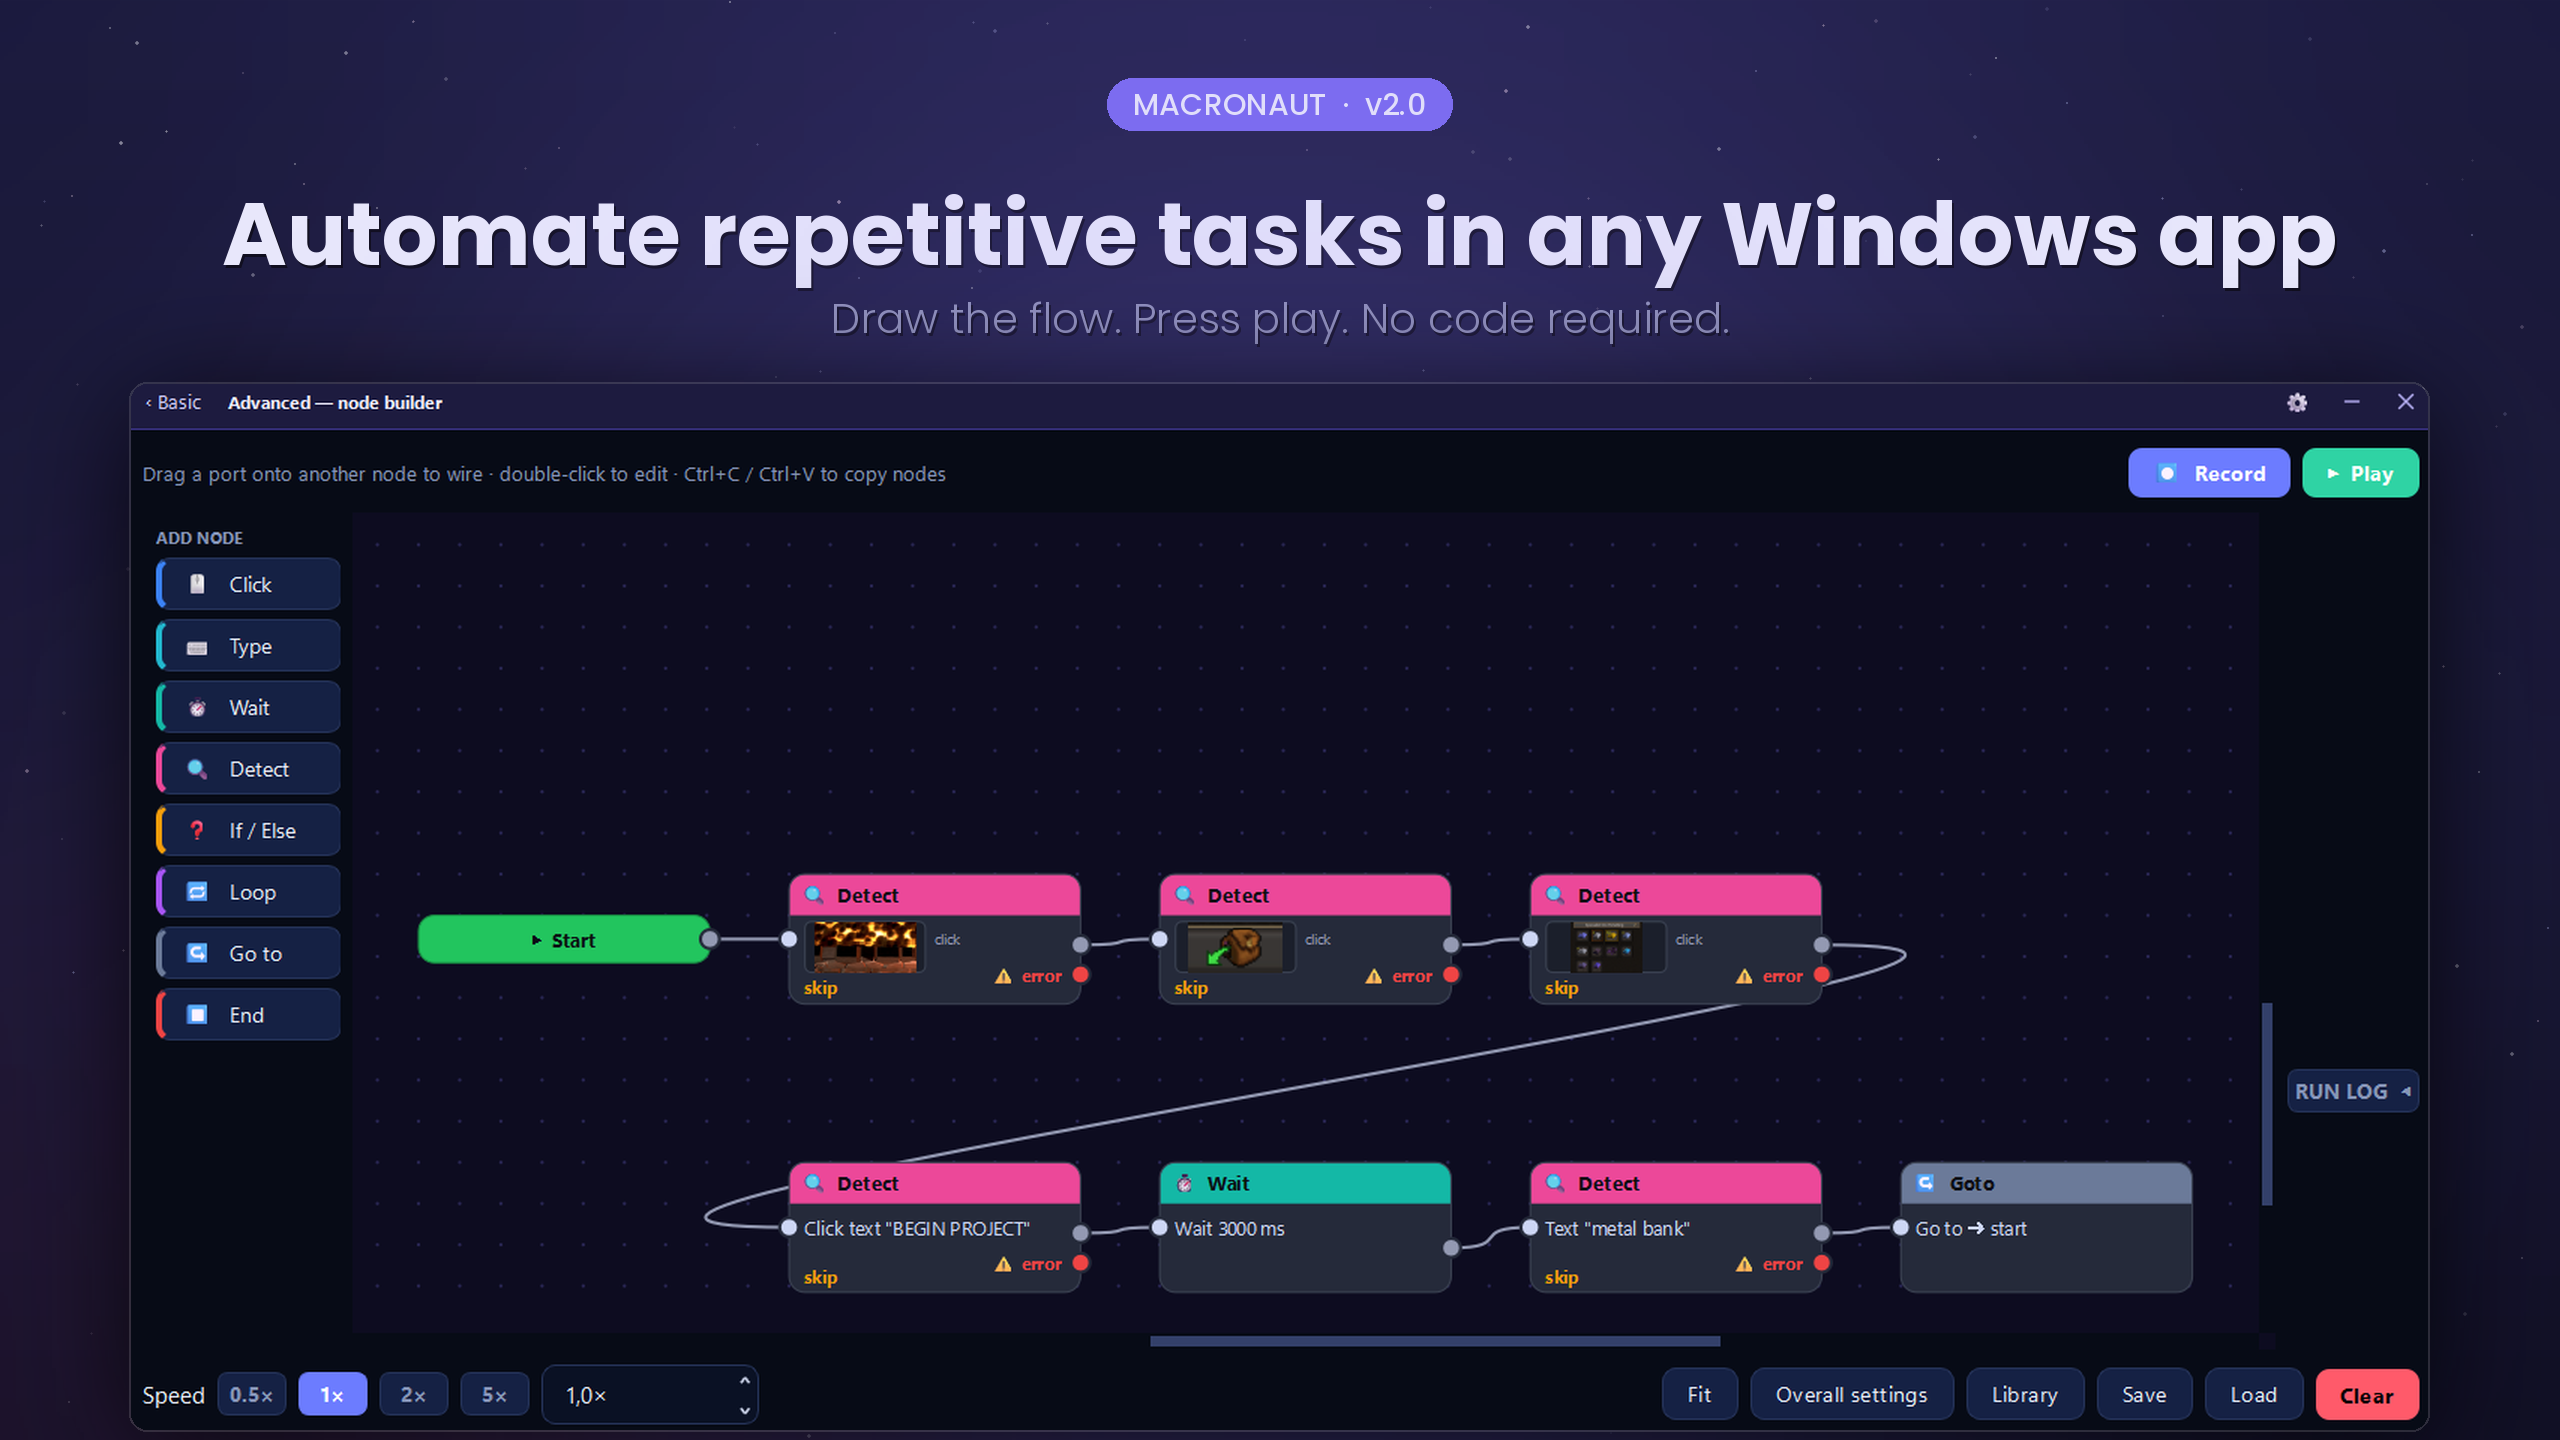
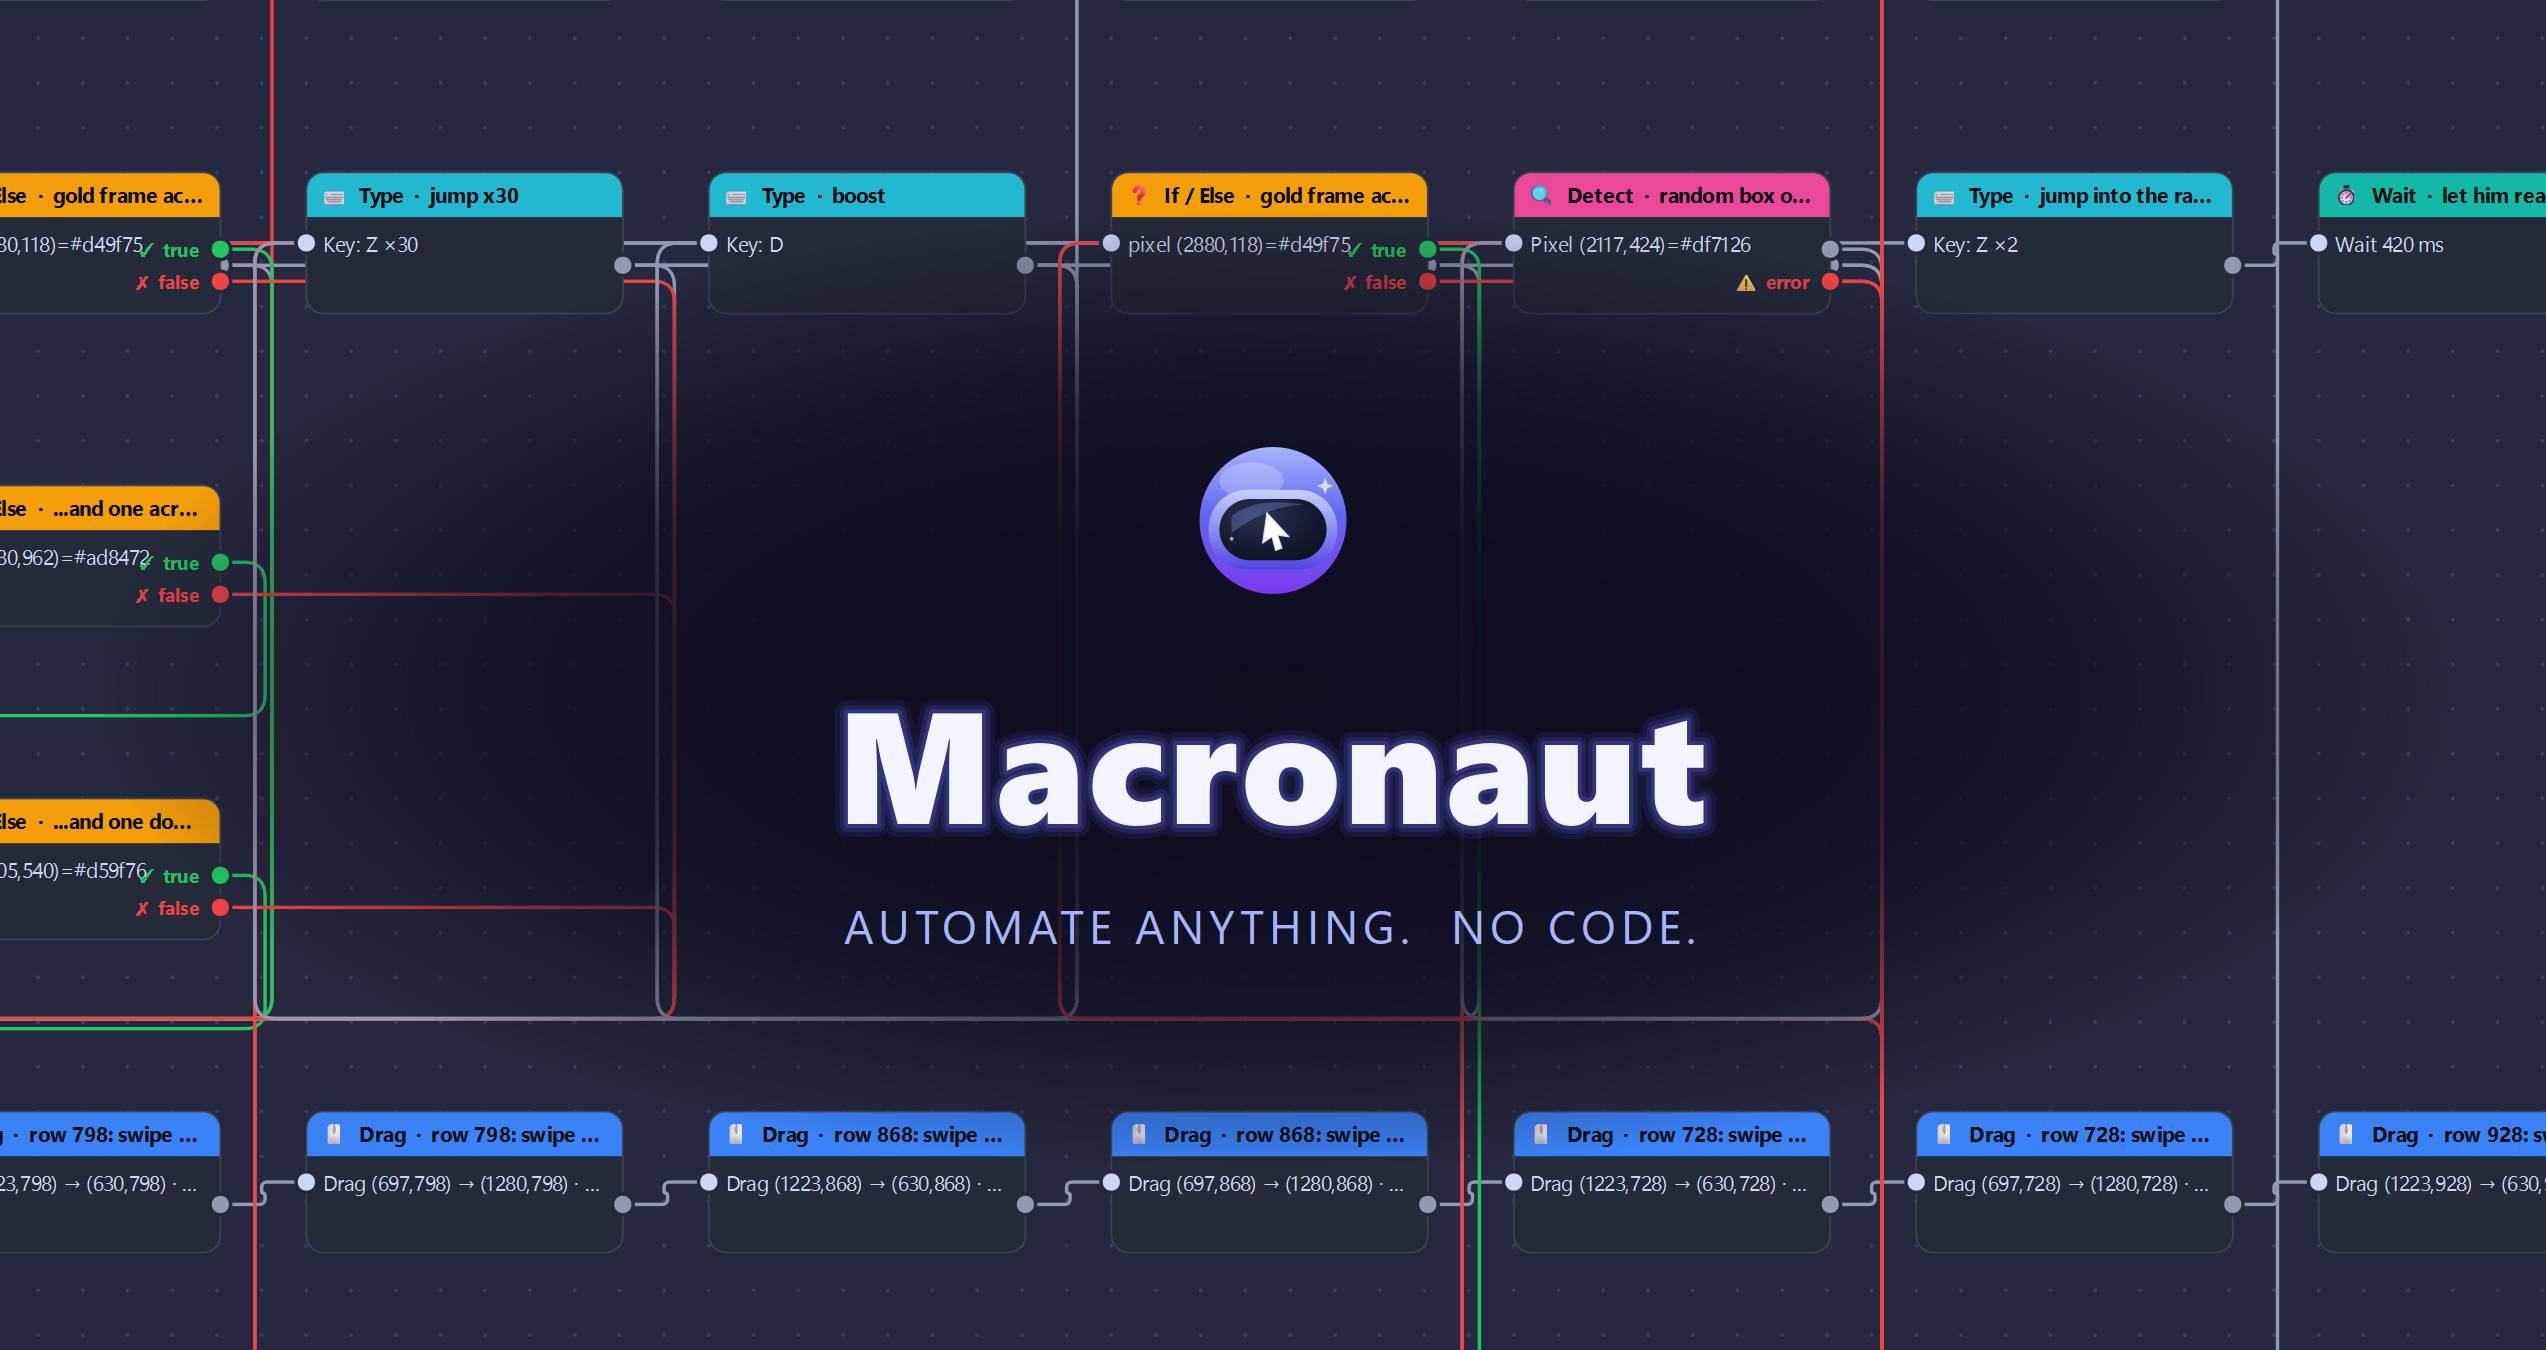
docs: rewrite the landing page for 2.1.1, and cut the assets to one
The README still described a two-face app with a Basic mode that has not
existed since 2.1.0, and stopped after the download button. It now says what
the app actually does today: the node canvas, the recorder, detection with
true/false branches, held keys, per-script launcher hotkeys and the three
input backends.

Assets are down to hero.png. banner/basic-mode/basic-vs-advanced/load-flow
all showed the retired Basic face or duplicated the hero; social-card.png is
uploaded to GitHub separately and is not served from the repo, so removing the
file does not disturb it.

The new hero is the real canvas rendered at 2x with the lockup composited into
an empty stretch of the graph, and it sits at the bottom of the page where it
reads as a sign-off rather than a wall between the reader and the download.

Also adds the SmartScreen note: an unsigned build warns on first run, and a
reader who is not told that reads the warning as the answer.

diff --git a/README.md b/README.md
@@ -18,3 +18,90 @@ Automate repetitive tasks in any Windows app — draw the flow, press play.</p>
 
 ---
 
+## What it is
+
+Macronaut automates clicking, typing and waiting in **any** Windows program —
+including ones with no API, no scripting support and no plugins. You build the
+automation as a **flow**: boxes for the things it does, wires for the order they
+happen in. No scripting language to learn.
+
+If you have ever thought *"I do this exact sequence twenty times a day"*, that
+is the thing Macronaut is for.
+
+## What it can do
+
+**Build a flow visually**
+- Drop in **Click**, **Move**, **Drag**, **Scroll**, **Type text**, **Key press**,
+  **Wait**, **Detect**, **If / Else**, **Loop**, **Go to** and **Comment** nodes
+- Wire them together and press ▶ — the running step lights up as it goes
+- Group a region with a **comment box**; drag the box and everything on it moves
+- Colour-code nodes, bend wires around each other, jump between sections
+- Copy, paste, duplicate and bulk-edit across the whole flow or just a selection
+
+**React to what's on screen**
+- **Find an image** — wait for a button, a dialog or an icon to appear, then click it
+- **Read text** — wait until specific words show up, using Windows' built-in OCR
+- **Check a pixel** — the cheapest possible "is the panel open yet?"
+- Every detection has a **✓ true** and a **✗ false** branch, so a flow can handle
+  the case where the thing never appears
+
+**Record instead of build**
+- Hit ⏺ and work normally — clicks, keystrokes, chords, scroll flicks and
+  click-and-drag gestures all land on the canvas as editable nodes
+- Held keys stay held; a swipe is recorded as a swipe, not as a click
+
+**Hold keys down**
+- Press and release are separate actions, so a flow can hold **W** to keep moving
+  while it clicks with the mouse
+- Anything still held is always released when the run ends, stops or crashes
+
+**Run it your way**
+- Global start/stop hotkey that works while another window is focused
+- Bind **different scripts to different keys** — one keypress launches one flow
+- Playback speed multiplier, loop counts, per-step delays
+- Timing estimates and a run timeline, measured on your machine rather than guessed
+
+**Reach programs that ignore normal input**
+- Three selectable input backends: standard, **SendInput scancodes**, and the
+  **Interception** kernel driver
+- Some programs — games especially — discard ordinary injected input. The lower
+  backends look like a real keyboard to them.
+
+**Stays out of the way**
+- Single 77 MB `.exe`, no installer, no Python, no admin needed to run
+- Checks for updates and applies them on restart, verified by SHA-256
+- Always-on-top mode, system tray icon, dark and light themes
+
+## Requirements
+
+Windows 10 or 11, 64-bit. Nothing else — everything is inside the `.exe`.
+
+> **On first run, Windows may warn you.** Macronaut is not code-signed yet, so
+> SmartScreen shows *"Windows protected your PC"* for new downloads. Click
+> **More info → Run anyway**. Signing is on the roadmap.
+
+## A word of warning
+
+Macronaut sends real keyboard and mouse input. **Many online games and services
+forbid automation in their terms of service, and using it against them can cost
+you your account.** That is your call to make — see section 5 of the
+[LICENSE](https://github.com/gtjevptje/Macronaut/releases/latest/download/LICENSE).
+
+## Licence
+
+**Proprietary — © 2026 Gerben van Poucke. All rights reserved.**
+
+Macronaut is licensed, not sold: install and run it on machines you own or
+control. Redistribution, resale and reverse engineering are not permitted. The
+source is not published. Full terms ship inside the app under
+**Settings → About & legal**, alongside the
+[third-party notices](https://github.com/gtjevptje/Macronaut/releases/latest/download/THIRD-PARTY-NOTICES.md)
+for the open-source components it is built on.
+
+---
+
+<p align="center">
+  <a href="https://github.com/gtjevptje/Macronaut/releases/latest/download/Macronaut.exe"><b>⬇&nbsp;&nbsp;Download Macronaut for Windows</b></a>
+</p>
+
+<p align="center"><img alt="A Macronaut flow on the canvas" src="assets/hero.png" width="100%"></p>
